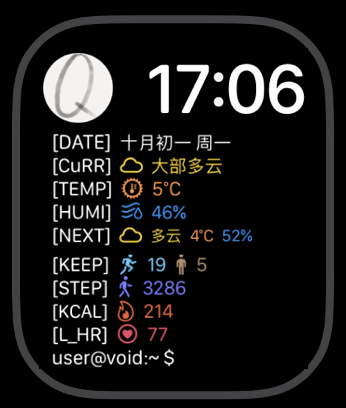
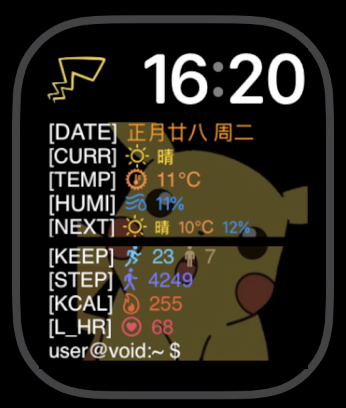
update readme

diff --git a/README.md b/README.md
@@ -16,8 +16,12 @@ Thanks for TermiWatch https://github.com/kuglee/TermiWatch/
 # Future
 Use **WeatherKit** to obtain weather information. **WeatherKit** only supports **paid developer accounts**.  
 ~Next, I will add other methods to obtain weather data.~  
-**qweather** has been introduced, and you can apply for a Key to replace the WeatherKit yourself.  https://dev.qweather.com/en/
+**qweather** has been introduced, and you can apply for a Key to replace the WeatherKit yourself.  https://dev.qweather.com/en/  
 
+#### Custom background image added.  
+* Next step, add automatic cropping application for uploading images as background images.  
+  
+  
 # How to install
 
 ## Prerequisites && Adding a developer account to Xcode
@@ -88,7 +92,7 @@ Click to enter, Capabilities -> find WeatherKit and HealthKit ☑，in App Se
 
 ## Custom UI
   1. Find /TermiWatchWidget/QConfiguration.swift, modify text, color. 
-  1. Image path on TermiWatchWidget/TermiWatchWidget_Widget/Assets.xcassets/LeftTopImage.imageset, you can replace it
+  1. Image path on TermiWatchWidget/TermiWatchWidget_Widget/Assets.xcassets/LeftTopImage / image,  you can replace it
   1. More custom go to /TermiWatchWidget Watch App/View/QCommonView.swift  
   1. When the language is Chinese, the [DATE] is based on the Chinese lunar calendar, while for other languages it is "EEE MM/dd YYYY". You can change it yourself. TWExtension.swift - currentDate.  
 
